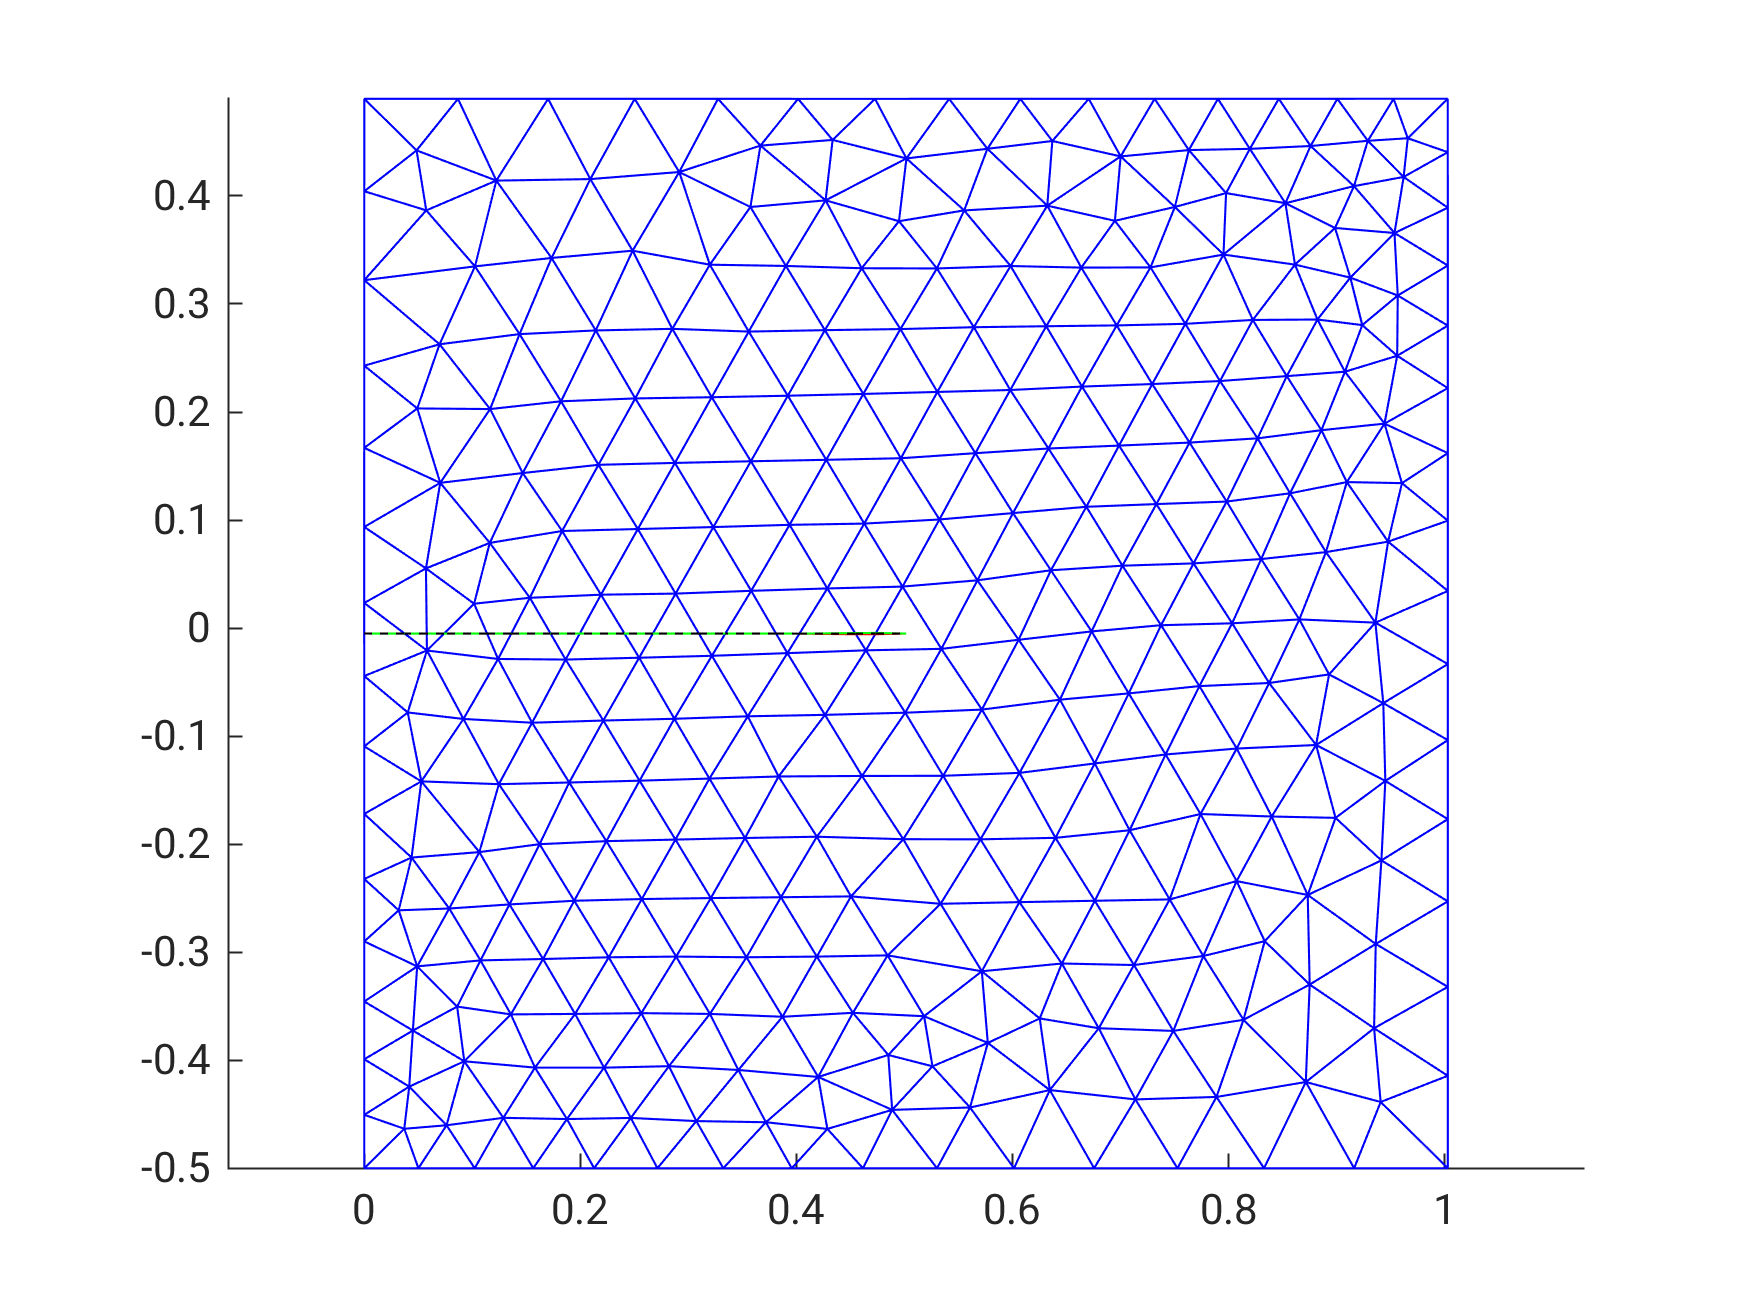
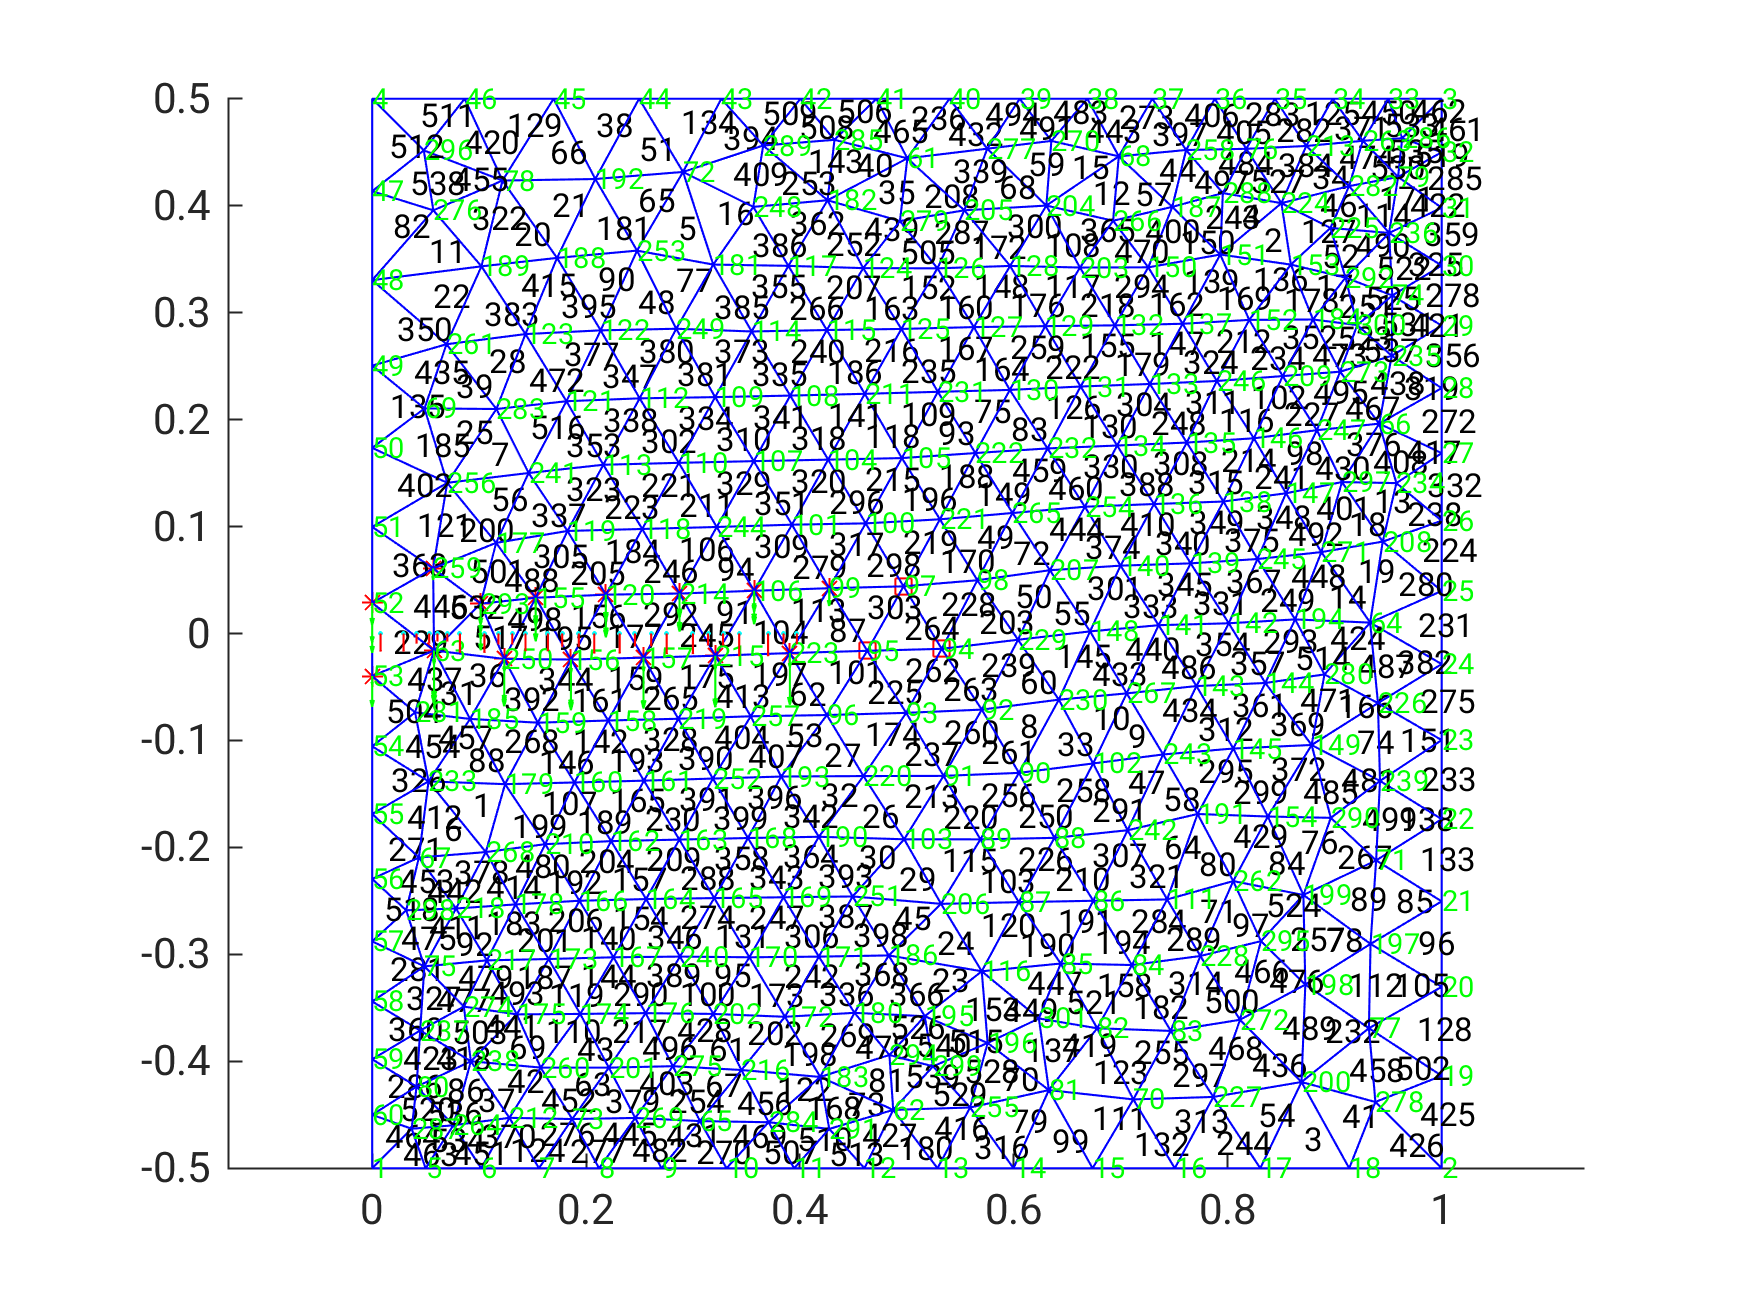
small tweaks on the contact bits

diff --git a/Routines_XFEM/KTmatXFEM.m b/Routines_XFEM/KTmatXFEM.m
@@ -135,25 +135,25 @@ for kk = 1:size(xCrk,2) %what's the crack?
     JO = l/2;
 
 
-    for kk = 1:2
-        gpt = gpts(kk,:) ;
+    for k_in = 1:2
+        gpt = gpts(k_in,:) ;
         [N,dNdxi] = lagrange_basis(elemType,gpt) ;
         Nmat = [N(1), 0, N(2), 0, N(3), 0 ; 0, N(1), 0 , N(2), 0, N(3)];
         gn = nv*Nmat*u(sctrA);
         if gn < 0
         if frictionB
         try
-          Kglobal(sctrA,sctrA) = Kglobal(sctrA,sctrA) + E_pen*W(kk)*Nmat'*(nnt - nmt*mu)*Nmat*det(JO) ;
-          Gint(sctrA) = Gint(sctrA) + E_pen*W(kk)*det(JO)*gn*Nmat'*nv';
-          Gint(sctrA) = Gint(sctrA) + E_pen*W(kk)*det(JO)*mu*gn*Nmat'*mv';
+          Kglobal(sctrA,sctrA) = Kglobal(sctrA,sctrA) + E_pen*W(k_in)*Nmat'*(nnt - nmt*mu)*Nmat*det(JO) ;
+          Gint(sctrA) = Gint(sctrA) + E_pen*W(k_in)*det(JO)*gn*Nmat'*nv';
+          Gint(sctrA) = Gint(sctrA) + E_pen*W(k_in)*det(JO)*mu*gn*Nmat'*mv';
         catch
           keyboard
         end
 
         else
         try
-          Kglobal(sctrA,sctrA) = Kglobal(sctrA,sctrA) + E_pen*W(kk)*Nmat'*nnt*Nmat*det(JO) ;
-          Gint(sctrA) = Gint(sctrA) + E_pen*W(kk)*det(JO)*gn*Nmat'*nv';
+          Kglobal(sctrA,sctrA) = Kglobal(sctrA,sctrA) + E_pen*W(k_in)*Nmat'*nnt*Nmat*det(JO) ;
+          Gint(sctrA) = Gint(sctrA) + E_pen*W(k_in)*det(JO)*gn*Nmat'*nv';
         catch
           keyboard
         end
@@ -165,10 +165,8 @@ for kk = 1:size(xCrk,2) %what's the crack?
       if plothelp
         Ppoint =  N' * node(sctr,:);
         Pvect = -1*det(JO)*nv;
-        Fvect = -1*det(JO)*mu*mv;
         Np = node(sctr,:);
         Nvect = -1*det(JO)*N*nv;
-        NFvect = -1*det(JO)*N*mv;
 
         figure(2)
         %plotMesh(node,element(iel,:),'T3','r-','no')
@@ -180,9 +178,13 @@ for kk = 1:size(xCrk,2) %what's the crack?
         %end
         plot(Ppoint(1),Ppoint(2),'*c','linestyle','none','markersize',1)
         quiver(Ppoint(1),Ppoint(2),Pvect(1),Pvect(2),'r')
-        quiver(Ppoint(1),Ppoint(2),Fvect(1),Fvect(2),'k')
         quiver(Np(:,1),Np(:,2),Nvect(:,1),Nvect(:,2),'g')
+        if frictionB
+        Fvect = -1*det(JO)*mu*mv;
+        NFvect = -1*det(JO)*N*mv;
+        quiver(Ppoint(1),Ppoint(2),Fvect(1),Fvect(2),'k')
         quiver(Np(:,1),Np(:,2),NFvect(:,1),NFvect(:,2),'o')
+      end
 
 
       

diff --git a/Crackprocessing/f_up_crk_int.m b/Crackprocessing/f_up_crk_int.m
@@ -1,4 +1,4 @@
-function [ ckint_out ] = f_up_crk_int( ckint, intes, f1, f2, q1, q2, crack_nodes, e  )
+function [ ckint_out ] = f_up_crk_int( ckint, intes, f1, f2, q1, q2, crack_nodes, el  )
 % This MATLAB function was created by Martin Forbes (martin.forbes@postgrad.otago.ac.nz)
 % The date of creation: Fri Nov 12 15:18:31 NZDT 2021
 
@@ -22,7 +22,7 @@ for i = 2:size(intes,1)
 end
 
 if size(ins,1)>2
-  error(['There are more then 2 intersects in element ',num2str(e)])
+  error(['There are more then 2 intersects in element ',num2str(el)])
 end
        
 crk = q2 - q1;
@@ -35,7 +35,9 @@ if isempty(ckint)
   elseif f1
     ckint_out = [ q1, ins ];
   else
-    error(['Crk_int upgrade error, element ',num2str(e)])
+    keyboard
+    msg = ['Crk_int upgrade error, element ',num2str(el)]
+    error(msg)
   end
 end
 

diff --git a/mainXFEM.m b/mainXFEM.m
@@ -35,7 +35,7 @@ for ipas = 1:npas
     %find type of element: tip, split, vertex
     [typeElem,elemCrk,tipElem,splitElem,vertexElem,cornerElem,tangentElem,xTip,xVertex,enrichNode,crackNode] = nnodeDetect(xCrk,enrDomain) ;
     % Deal with corner nodes by introducing phantom nodes (1 for each signed distance)
-    keyboard
+    %keyboard
     if ~isempty(crackNode)
       % check that all elements connected to crackNode have been properly enriched
       
@@ -186,7 +186,7 @@ for ipas = 1:npas
     axis equal; view(2); shading interp; colorbar
     title('Y displacement before Newton solver')
     print('original_disp','-dpng')
-    keyboard
+    %keyboard
 
 
 

diff --git a/Crackprocessing/nnodeDetect.m b/Crackprocessing/nnodeDetect.m
@@ -71,7 +71,7 @@ for kk = 1:size(xCr,2)
 
             [ phi  ] = dista(e,[q1,q2]);
             [ psi1 ] = f_dista2(e,[q1,q2],q1);
-            [ psi2 ] = f_dista2(e,[q1,q2],q2);
+            [ psi2 ] = f_dista2(e,[q2,q1],q2);
             lck_n = [];
 
             for nn = 1:length(vv)
@@ -112,7 +112,7 @@ for kk = 1:size(xCr,2)
                   end
               end
                 
-              if ~isempty(int_points) 
+              if ~isempty(int_points)
                 [crk_int] = f_up_crk_int(crk_int,int_points,flag1,flag2,q1,q2,e);
                 flag5 = 1;
               end

diff --git a/Routines_XFEM/dista.m b/Routines_XFEM/dista.m
@@ -13,13 +13,14 @@ else
   x1 = elem_crk(iel,3) ; y1 = elem_crk(iel,4) ;
 end
 
+l = sqrt((x1-x0)*(x1-x0) + (y1-y0)*(y1-y0)) ;
+
 for i=1:size(sctr,2)
     x = node(sctr(i),1) ;
     y = node(sctr(i),2) ;
-    l = sqrt((x1-x0)*(x1-x0) + (y1-y0)*(y1-y0)) ;
     %phi = (y0-y1)*x + (x1-x0)*y + (x0*y1 - y0*x1) ;
     phi = (y0-y1)*(x-x0) + (x1-x0)*(y-y0);
-    phi = phi./l;
+    phi = phi/l;
     if abs(phi) < EPS
      dist(i) = 0 ;
     else

diff --git a/Routines_XFEM/f_dista2.m b/Routines_XFEM/f_dista2.m
@@ -25,10 +25,13 @@ elseif ~points_same_2d(tip,[x1,y1])
   error('Tip and elem_crk dont match')
 end
 
+l = sqrt((x1-x0)*(x1-x0) + (y1-y0)*(y1-y0)) ;
+
 for i=1:size(sctr,2)
     x = node(sctr(i),1) ;
     y = node(sctr(i),2) ;
     psi = (x-x1)*(x1-x0)+(y-y1)*(y1-y0);
+    psi = psi/l;
     if abs(psi) < EPS
      dist(i) = 0;
     else

diff --git a/Testcases/testcase_tri_gmsh_interpenetration.m b/Testcases/testcase_tri_gmsh_interpenetration.m
@@ -22,9 +22,11 @@ global xCr deltaInc numstep numcrack
 global plotmesh plotNode
 global node element numnode numelem bcNodes edgNodes
 global plothelp
-global penalty fixedF contact
-plothelp = 0
+global penalty fixedF contact epsilon Kpen
+plothelp = 1
 contact = 1
+epsilon = 1e-5
+Kpen = 1e7
 
 penalty = 1;
 %problem flags
